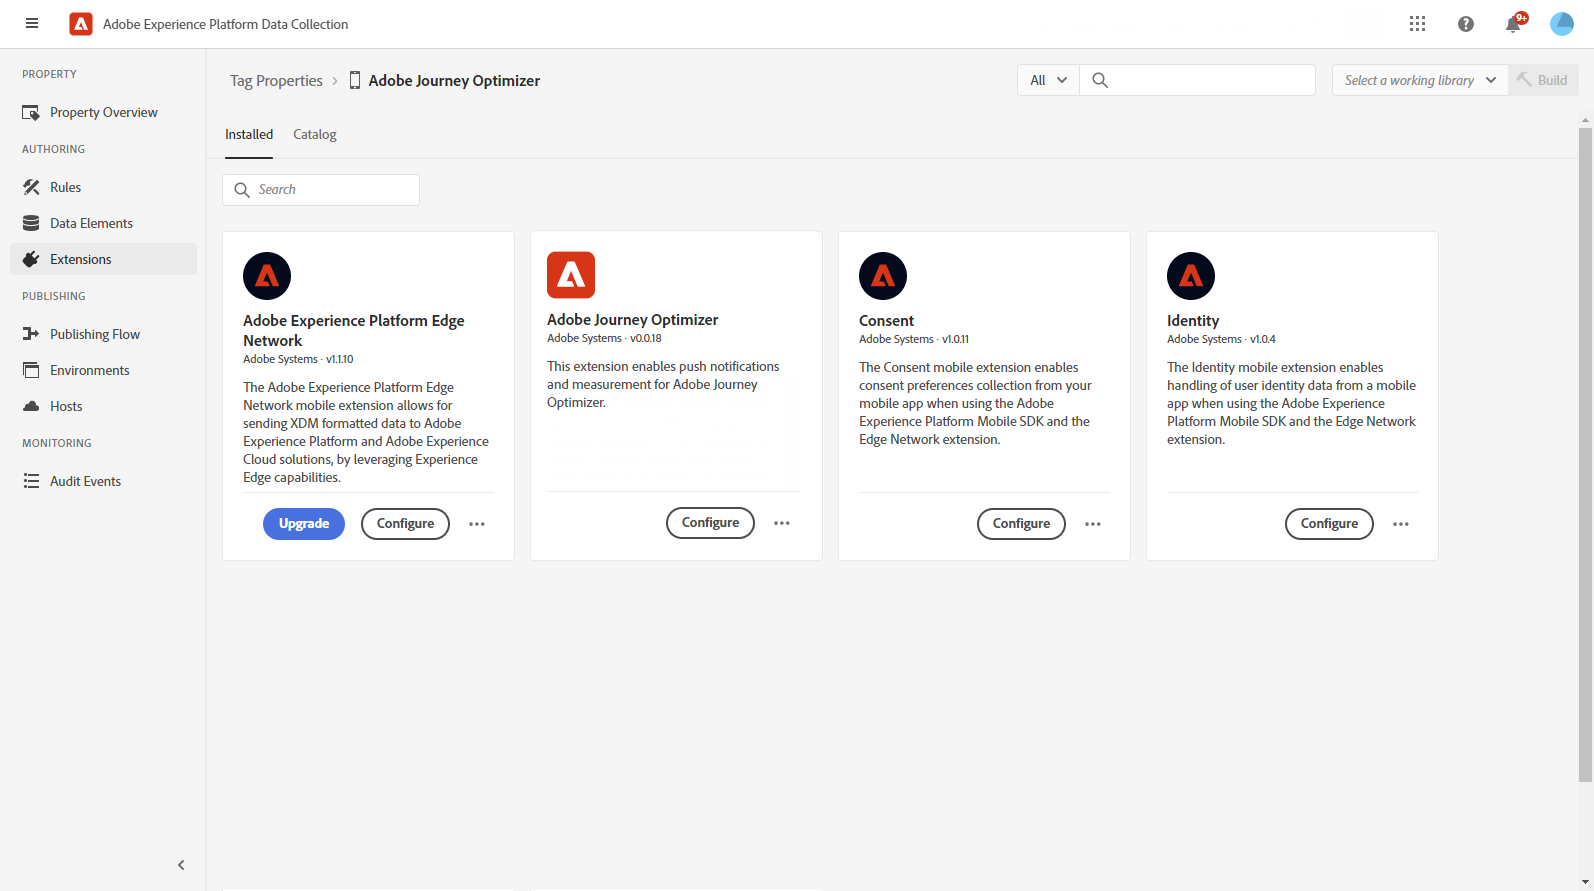
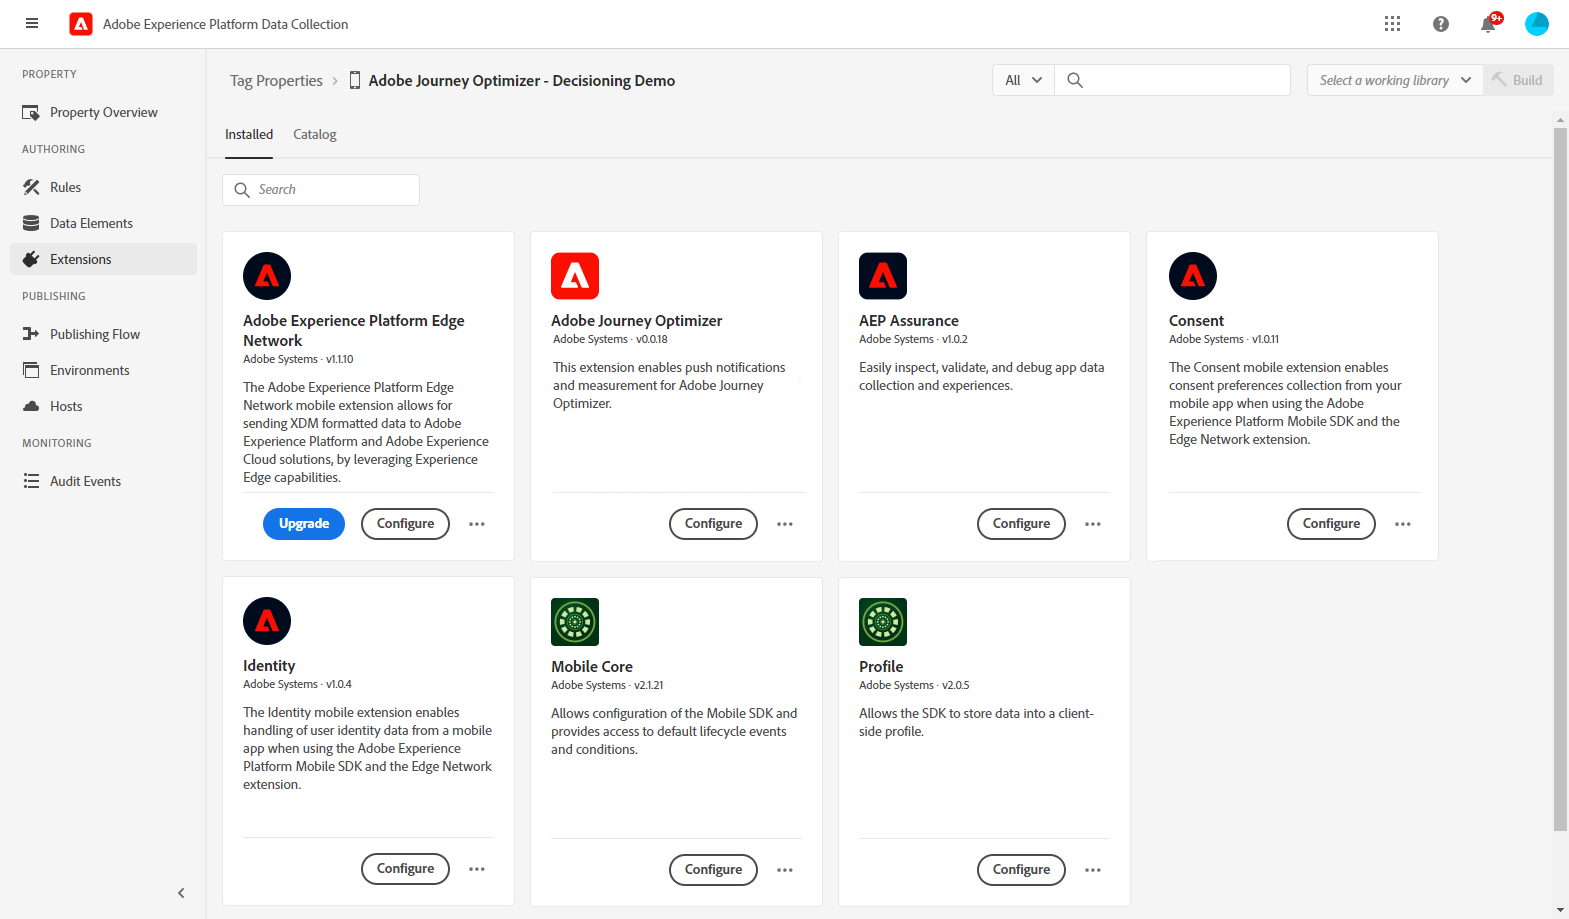
update in app

diff --git a/help/using/configuration/inapp-configuration.md b/help/using/configuration/inapp-configuration.md
@@ -8,7 +8,15 @@ level: Intermediate
 
 Before sending In-app messages, you need to configure your in-App channel in [!DNL Adobe Experience Platform Data Collection].
 
-1. From your [!DNL Adobe Experience Platform Data Collection] account, access the **[!UICONTROL App surfaces]** menu, then click **[!UICONTROL Create App surface]**.
+1. From your [!DNL Adobe Experience Platform Data Collection] account, access the **[!UICONTROL Datastream]** menu and click **[!UICONTROL New datastream]**. For more information on datastream creation, refer to [this page](https://aep-sdks.gitbook.io/docs/getting-started/configure-datastreams).
+
+1. Select the [!DNL Adobe Experience Platform] service. Then, select **[!UICONTROL AJO Push Tracking Experience Event Dataset]** as **[!UICONTROL Event Dataset]** and **[!UICONTROL CJM Push Profile Dataset]** as **[!UICONTROL Profile Dataset]**.
+
+    [!DNL Edge Segmentation] and [!DNL Offer Decisioning] must be selected.
+
+    ![](assets/inapp_config_6.png)
+
+1. Then, access the **[!UICONTROL App surfaces]** menu, then click **[!UICONTROL Create App surface]**.
 
     ![](assets/inapp_config_1.png)
 
@@ -28,7 +36,7 @@ Before sending In-app messages, you need to configure your in-App channel in [!D
 
 1. After creating your app surface, you now need to create a mobile property. 
 
-    Refer to [this page](https://experienceleague.adobe.com/docs/experience-platform/tags/admin/companies-and-properties.html?lang=en#create-or-configure-a-property) for the detailed procedure.
+    Refer to [this page](https://experienceleague.adobe.com/docs/experience-platform/tags/admin/companies-and-properties.html#for-mobile) for the detailed procedure.
 
     ![](assets/inapp_config_4.png)
 
@@ -36,8 +44,11 @@ Before sending In-app messages, you need to configure your in-App channel in [!D
 
     * Adobe Experience Platform Edge Network
     * Adobe Journey Optimizer
+    * AEP Assurance
     * Consent
     * Identify
+    * Mobile Core
+    * Profile
 
     Refer to [this page](https://experienceleague.adobe.com/docs/experience-platform/tags/ui/extensions/overview.html?lang=en#add-a-new-extension) for the detailed procedure.
 

diff --git a/help/using/messages/create-in-app.md b/help/using/messages/create-in-app.md
@@ -17,7 +17,9 @@ To create an In-app message, follow the steps below:
 
 1. In the **[!UICONTROL Properties]** section, specify when you want to execute the campaign. [Learn more](../campaigns/create-campaign.md#create).
 
-1. In the **[!UICONTROL Actions]** section, choose the **[!UICONTROL In-app message]** and the **[!UICONTROL Channel surface]** to use to send your message, then click **[!UICONTROL Create]**. [Learn more](../configuration/channel-surfaces.md).
+1. In the **[!UICONTROL Actions]** section, choose the **[!UICONTROL In-app message]** and the **[!UICONTROL App surface]** previously configured for your In-app message. Then, click **[!UICONTROL Create]**. 
+
+    [Learn more on In-app configuration](../configuration/inapp-configuration.md).
 
     ![](assets/in_app_create_1.png)
 
